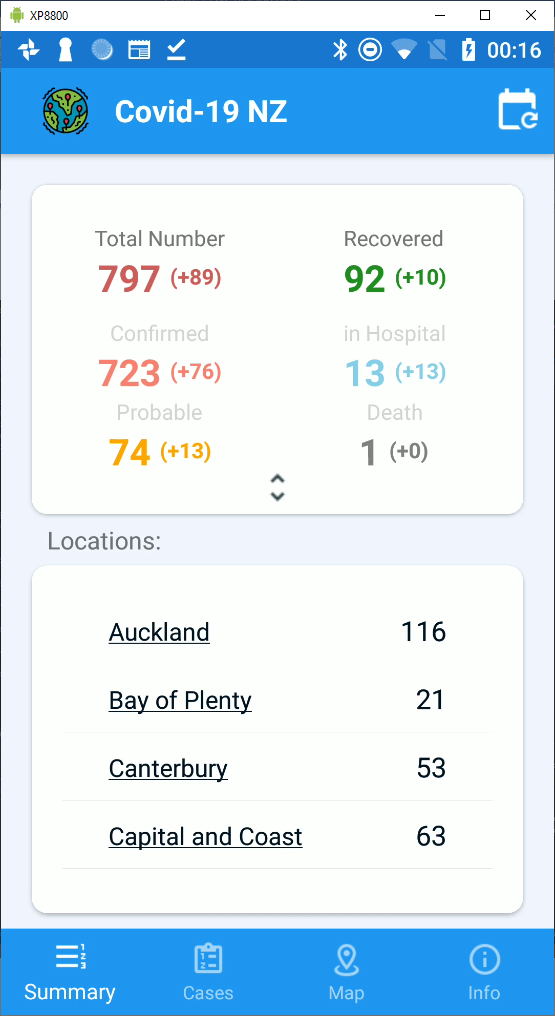
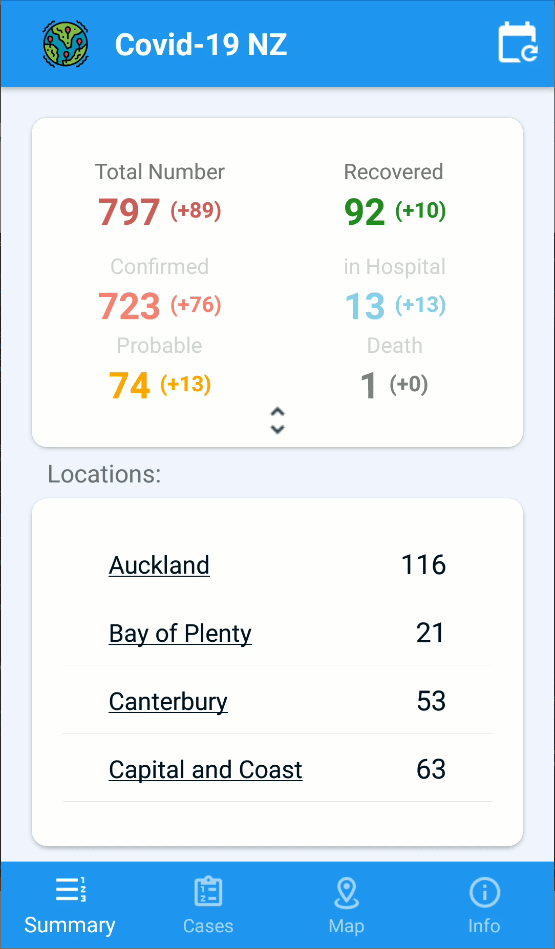
:bookmark: v1.1.1 with new header.

diff --git a/README.md b/README.md
@@ -59,13 +59,13 @@ APK access from [VS App Center](https://tinyurl.com/covid19nzapp), or this url: 
 - [ ] Color redesign.
 - [ ] Paging cases
 - [ ] icon converter for gender and color converter for case type
-- [ ] animation for summary page?
+- [x] animation for summary page?
 
 #### Refresh on March 31th:
 
 - [x] New cases page UI
-- [ ] Header detail UI
-- [ ] Info page UI
+- [x] Header detail UI
+- [x] Info page UI
 - [ ] cluster information
 - [x] icons not ready
 
@@ -86,7 +86,7 @@ APK access from [VS App Center](https://tinyurl.com/covid19nzapp), or this url: 
 #### List page
 
 - [x] Header api implementation
-- [ ] detail info for Header
+- [x] detail info for Header
 - [ ] refresh time stated
 - [ ] ~~Filters and sorters for the listing~~
 
@@ -126,11 +126,9 @@ APK access from [VS App Center](https://tinyurl.com/covid19nzapp), or this url: 
 
 	v1.1.0	:tada: Case page updated. Icons updated.
 
-	v1.1.1	:construction:
+	v1.1.1	Add expandable header (check new screenshot above). Update accent color and info page.
 
-
-
-
+	v1.1.2	:construction:
 
 
 
